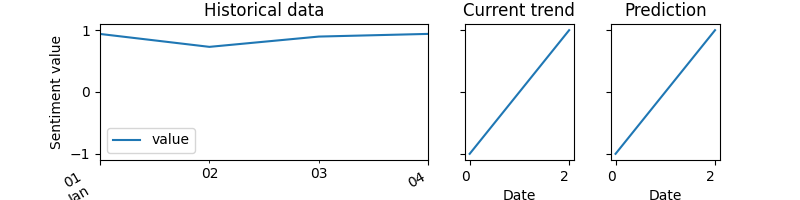
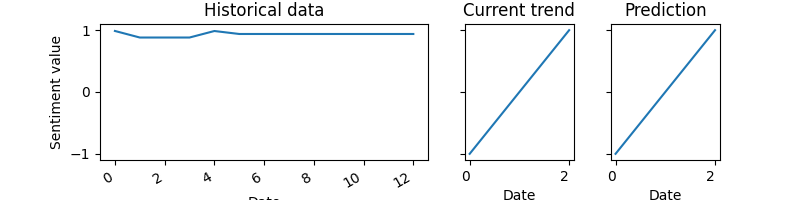
add graph plotting to bot

diff --git a/src/bot.py b/src/bot.py
@@ -1,7 +1,8 @@
+import json
 import os
 import numpy as np
 import slack
-from flask import Flask, Response, request
+from flask import Flask, Response, request, stream_with_context
 from slack.errors import SlackApiError
 from slackeventsapi import SlackEventAdapter
 from helpers.message import Message
@@ -31,6 +32,7 @@ def message(payload):
     channel_id = event.get('channel')
     user_id = event.get('user')
     text = event.get('text')
+    return Response(), 200 # TMP
     if user_id == BOT_ID:
         return
     client.chat_postMessage(channel=channel_id, text=f'{text} to you!')
@@ -58,20 +60,38 @@ def analyze():
     args_text = data.get('text')
     args = parse_args(args_text)
 
-    history = load_channel_history(channel_id, date_from=args.date_from, date_to=args.date_to)
-
-    filtered_history = filter_history(history)
-    #print(filtered_history)
+    history = load_channel_history(channel_id)
+    #print(f'History {history}')
+    filtered_history = filter_history(history, args)
+    #print(f'Filtered History {filtered_history}')
+    if len(filtered_history) <= 0:
+        client.chat_postMessage(channel=channel_id, text='No data to analyze')
+        return Response(), 200
     # Analyze messages
     sa = analyzer.get_sentiment_analysis([m.text for m in filtered_history])
     # Analyze SA
-    # Print Graph{
+    # Print Graph
+    graph_path = analyzer.get_plot(plot_path='out/graphs/foo.png', )
+
     msg = f'Analysed {len(filtered_history)} messages: Min: {min(sa)} Max: {max(sa)} Mean: {np.mean(sa)}'
-    client.chat_postMessage(channel=channel_id, text=msg)
+    #client.chat_postMessage(channel=channel_id, text=msg)
+    try:
+        response = client.files_upload(
+            file=graph_path,
+            initial_comment=msg,
+            channels=channel_id)
+        return Response(), 200
+    except SlackApiError as e:
+        # You will get a SlackApiError if "ok" is False
+        assert e.response["ok"] is False
+        # str like 'invalid_auth', 'channel_not_found'
+        assert e.response["error"]
+        print(f"Got an error: {e.response['error']}")
+        return Response(), 500
     return Response(), 200
 
 
-def load_channel_history(channel_id: str, date_from=None, date_to=None) -> []:
+def load_channel_history(channel_id: str) -> []:
     try:
         response = client.conversations_history(channel=channel_id, limit=200)
         history = response["messages"]
@@ -98,12 +118,11 @@ def filter_history(history: [], date_range=None) -> []:
         # Flag if message is not in specified date range, if date range arg was passed
         if date_range is not None:
             _from, _to = date_range
-            if _from is None or _to is None:
-                continue
-            stamp = int(msg['ts'])
-            date = datetime.fromtimestamp(stamp)
-            if _from > date or date > _to:
-                add = False
+            if _from is not None and _to is not None:
+                stamp = round(float(msg['ts']))
+                date = datetime.fromtimestamp(stamp)
+                if _from > date or date > _to:
+                    add = False
         # If not flagged append to filtered history
         if add:
             filtered.append(Message(msg['text'], msg['user'], msg['ts']))
@@ -134,3 +153,7 @@ def parse_args(text: str) -> namedtuple:
     except Exception:
         print('Bad format of args.')
         return date_range(None, None)
+
+
+if __name__ == '__main__':
+    app.run(debug=True)

diff --git a/src/analyzer/analyzer.py b/src/analyzer/analyzer.py
@@ -4,11 +4,13 @@ import pandas as pd
 
 from .data_cleaner import *
 from .data_transformation import TfidfDataTransformer
+import matplotlib.pyplot as plt
 
 
 class Analyzer:
 
     def __init__(self, folder, model_name='model.sav', vectorizer_name='vectorizer.sav'):
+        self.last_prediction = None
         self.model_path = f'{folder}/{model_name}'
         self.vectorizer_path = f'{folder}/{vectorizer_name}'
         self.model = None
@@ -34,9 +36,58 @@ class Analyzer:
         #tr_data = pd.read_csv('models/model_data.csv')
         #tr_data.dropna(inplace=True)
         #tr_data = pd.concat([tr_data['clean_tweet'], data])
+        #print(data)
         data = self.data_transformer.transform(data)
         #data = data[-data_len:]
         #print(data)
         predictions = self.model.predict_proba(data)
-        #print(predictions)
-        return [x[0] for x in predictions]
+        self.last_prediction = [x[0] for x in predictions]
+        return self.last_prediction
+
+    @staticmethod
+    def _emoji_from_score(score):
+        return '😀' if score > 0.85 else '😐' if score > 0.75 else '☹'
+
+    #TODO: Needed?????
+    def index_dates(self, data, dates):
+        date_time = pd.to_datetime(dates)
+        df = pd.DataFrame()
+        df['value'] = data
+        df = df.set_index(date_time)
+        return df
+
+    def get_plot(self, plot_path=None, x_label='Date', y_label='Sentiment value', data2=pd.Series([-1, 0, 1])
+                     , data3=pd.Series([-1, 0, 1])):
+        if self.last_prediction is None:
+            print('No predicitions done')
+            return
+
+        fig, (ax1, ax2, ax3) = plt.subplots(1, 3, figsize=(8, 2), width_ratios=[3, 1, 1], sharey=True)
+        fig.suptitle('Sentiment analysis', fontsize=14, y=1.1)
+
+        data = pd.Series(self.last_prediction)
+        # Plot sentiment values
+        data.plot(ax=ax1)
+        plt.gcf().autofmt_xdate()
+        ax1.set_xlabel(x_label)
+        ax1.set_ylabel(y_label)
+        ax1.set_title("Historical data")
+
+        # Plot trend TODO
+        data2.plot(ax=ax2)
+
+        ax2.set_xlabel("Date")
+        ax2.set_ylabel("Trend")
+        ax2.set_title("Current trend")
+
+        # Plot prediction?
+        data3.plot(ax=ax3)
+
+        ax3.set_xlabel("Date")
+        ax3.set_ylabel("Prediction")
+        ax3.set_title("Prediction")
+        #ax3.text(4, 0, ''.join(data["value"].apply(lambda x: self.emoji_from_score(x))), fontsize=20)
+
+        if plot_path is not None:
+            plt.savefig(plot_path)
+        return plot_path
